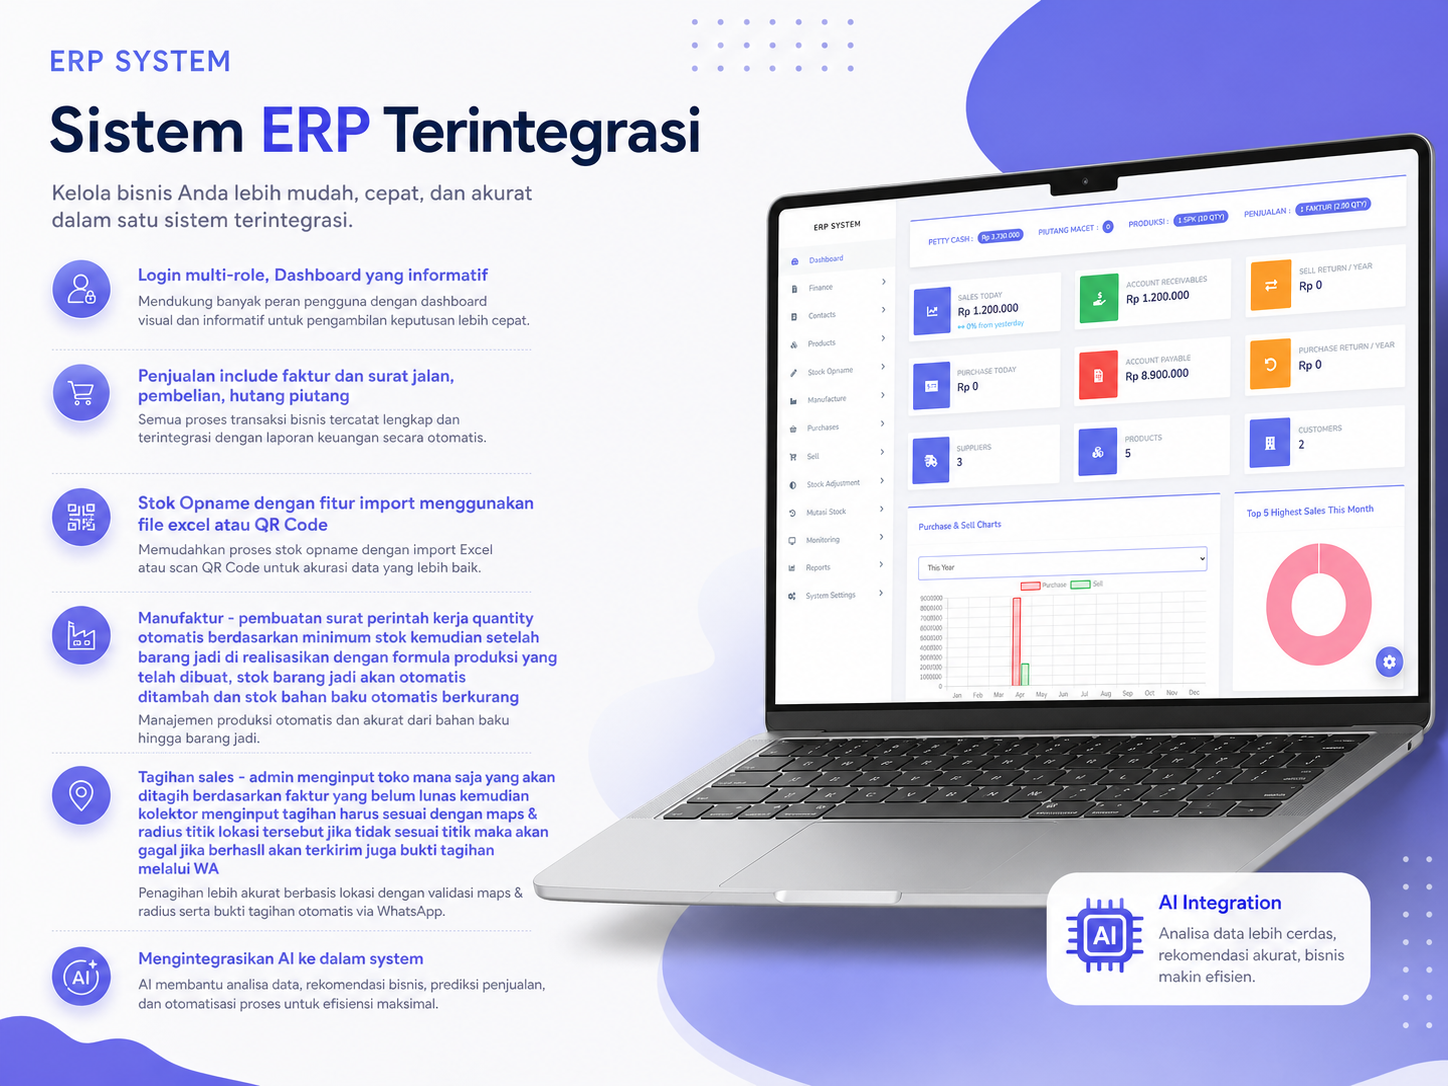
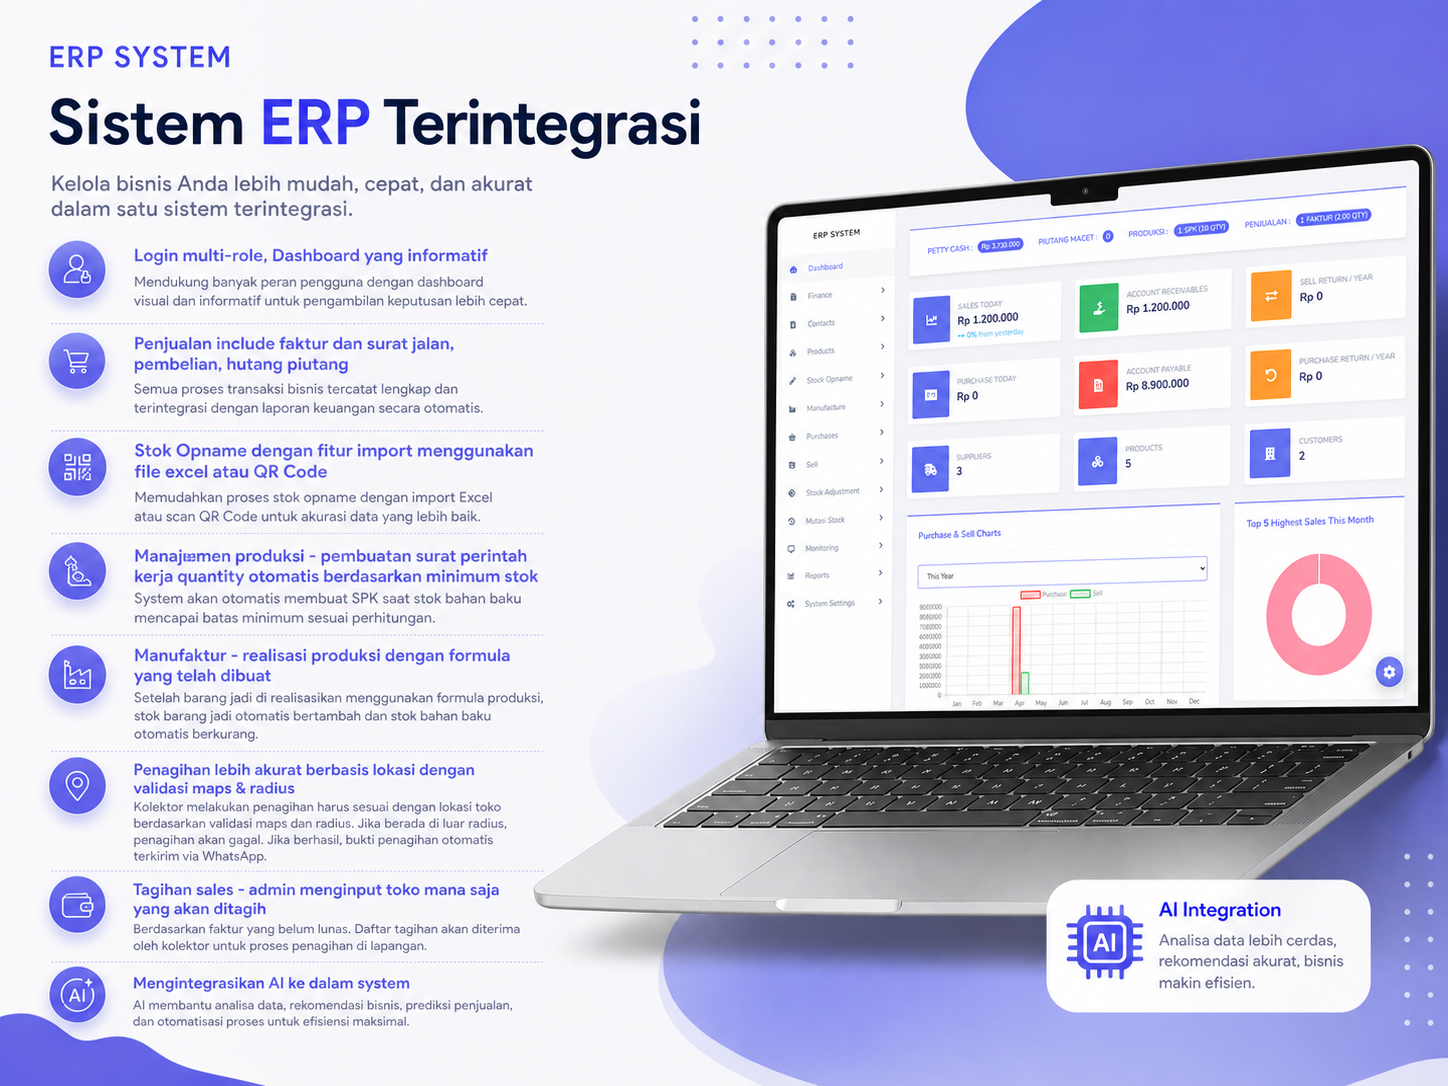
Edit language

Changed region(s): [[0.0, 0.0304, 0.9945, 0.9724]]

diff --git a/src/app/translations/id.ts b/src/app/translations/id.ts
@@ -30,9 +30,9 @@ export const id = {
     yearsOfExperience: "Tahun Pengalaman",
     buildingApps: "Membangun aplikasi web",
     expertise: [
-      "Arsitektur Frontend",
-      "Pengembangan Backend",
-      "Desain Database",
+      "Pengembangan Antarmuka",
+      "Pengembangan Sistem",
+      "Perancangan Arsitektur Database",
       "Implementasi UI/UX",
     ],
   },
@@ -42,28 +42,6 @@ export const id = {
     sectionLabel: "Keahlian Saya",
     title: "Keahlian Teknis",
     description: "Ikhtisar fokus tentang profisiensi teknis dan toolset saya.",
-    categories: {
-      frontend: "Frontend",
-      backend: "Backend",
-      database: "Database",
-      tools: "Peralatan",
-    },
-    items: {
-      frontend: [
-        "HTML",
-        "CSS",
-        "JavaScript",
-        "TypeScript",
-        "Bootstrap",
-        "Tailwind CSS",
-        "React",
-        "Next.js",
-        "Flutter",
-      ],
-      backend: ["PHP", "CodeIgniter", "Laravel", "Node.js"],
-      database: ["MySQL", "PostgreSQL", "Supabase", "Firebase", "MongoDB"],
-      tools: ["Git", "GitHub", "Postman", "VS Code", "Figma"],
-    },
   },
 
   // Projects Section
@@ -79,21 +57,21 @@ export const id = {
         description:
           "Sistem manajemen pasien komprehensif untuk rumah sakit yang mencakup fitur seperti penjadwalan janji, manajemen catatan pasien, dan manajemen antrian.",
         role: "Pengembang Fullstack",
-        tech: ["Laravel", "MySQL", "JavaScript", "VS Code", "Tailwind CSS"],
+        tech: ["PHP", "Laravel", "MySQL", "JavaScript", "Tailwind CSS", "VS Code"],
       },
       {
         title: "PresensiGo",
         description:
           "Aplikasi mobile untuk tim sales yang memungkinkan mereka mencatat kehadiran, kunjungan pelanggan, dan aktivitas harian dengan fitur berbasis lokasi dan pelaporan waktu nyata.",
         role: "Pengembang Mobile",
-        tech: ["Laravel", "MySQL", "VS Code", "Postman", "Flutter"],
+        tech: ["Flutter", "Android Studio", "Postman", "VS Code"],
       },
       {
         title: "HRIS",
         description:
           "Sistem informasi sumber daya manusia untuk manajemen karyawan, absensi, dan penggajian.",
         role: "Pengembang Fullstack",
-        tech: ["HTML", "Bootstrap", "Laravel", "MySQL", "VS Code"],
+        tech: ["HTML", "CSS", "JavaScript", "Bootstrap", "PHP", "Laravel", "MySQL", "VS Code"],
       },
       {
         title: "Profil Perusahaan",
@@ -101,13 +79,12 @@ export const id = {
           "Situs web profil perusahaan modern dengan desain responsif, elemen interaktif, dan kinerja yang dioptimalkan.",
         role: "Pengembang Fullstack",
         tech: [
-          "HTML",
-          "Tailwind CSS",
           "Next.js",
           "JavaScript",
+          "Tailwind CSS",
           "Supabase",
-          "Postman",
           "VS Code",
+          "Postman",
         ],
       },
       {
@@ -116,9 +93,8 @@ export const id = {
           "Sistem manajemen konten untuk situs profil perusahaan yang memungkinkan admin mengelola konten dengan mudah melalui dashboard yang intuitif.",
         role: "Pengembang Fullstack",
         tech: [
-          "HTML",
-          "Tailwind CSS",
           "Next.js",
+          "JavaScript",
           "Supabase",
           "Shadcn UI",
           "VS Code",
@@ -127,9 +103,9 @@ export const id = {
       {
         title: "Sistem ERP untuk Manufaktur",
         description:
-          "Sistem manajemen sumber daya perusahaan lengkap untuk perusahaan manufaktur dengan manajemen inventaris, pelacakan produksi, dan fitur pelaporan.",
+          "Sistem ini dirancang untuk memantau dan mengotomatisasi proses bisnis inti perusahaan seperti keuangan, rantai pasokan, dan produksi dalam satu platform terpusat.",
         role: "Pengembang Full Stack",
-        tech: ["HTML", "Bootstrap", "CodeIgniter", "MySQL", "VS Code"],
+        tech: ["HTML", "CSS", "JavaScript", "Bootstrap", "CodeIgniter", "MySQL", "VS Code"],
       },
     ],
   },

diff --git a/src/app/translations/en.ts b/src/app/translations/en.ts
@@ -32,9 +32,9 @@ export const en = {
     yearsOfExperience: "Years of Experience",
     buildingApps: "Building web applications",
     expertise: [
-      "Frontend Architecture",
+      "Frontend Development",
       "Backend Development",
-      "Database Design",
+      "Database Architecture",
       "UI/UX Implementation",
     ],
   },
@@ -44,28 +44,6 @@ export const en = {
     sectionLabel: "My Expertise",
     title: "Technical Skills",
     description: "A focused overview of my technical proficiency and toolset.",
-    categories: {
-      frontend: "Frontend",
-      backend: "Backend",
-      database: "Database",
-      tools: "Tools",
-    },
-    items: {
-      frontend: [
-        "HTML",
-        "CSS",
-        "JavaScript",
-        "TypeScript",
-        "Bootstrap",
-        "Tailwind CSS",
-        "React",
-        "Next.js",
-        "Flutter",
-      ],
-      backend: ["PHP", "CodeIgniter", "Laravel", "Node.js"],
-      database: ["MySQL", "PostgreSQL", "Supabase", "Firebase", "MongoDB"],
-      tools: ["Git", "GitHub", "Postman", "VS Code", "Figma"],
-    },
   },
 
   // Projects Section
@@ -81,21 +59,21 @@ export const en = {
         description:
           "A comprehensive patient management system for hospitals that includes features such as appointment scheduling, patient records management, and queue management.",
         role: "Fullstack Developer",
-        tech: ["Laravel", "MySQL", "JavaScript", "VS Code", "Tailwind CSS"],
+        tech: ["PHP", "Laravel", "MySQL", "JavaScript", "Tailwind CSS", "VS Code"],
       },
       {
         title: "PresensiGo",
         description:
           "A mobile application for sales teams that allows them to log attendance, customer visits, and daily activities with location-based features and real-time reporting.",
         role: "Mobile Developer",
-        tech: ["Laravel", "MySQL", "VS Code", "Postman", "Flutter"],
+        tech: ["Flutter", "Android Studio", "Postman" , "VS Code"],
       },
       {
         title: "HRIS",
         description:
           "Human Resource Information System for managing employee data, attendance, and payroll.",
         role: "Fullstack Developer",
-        tech: ["HTML", "Bootstrap", "Laravel", "MySQL", "VS Code"],
+        tech: ["HTML", "CSS", "JavaScript", "Bootstrap", "PHP", "Laravel", "MySQL", "VS Code"],
       },
       {
         title: "Company Profile",
@@ -103,10 +81,9 @@ export const en = {
           "A modern company profile website with responsive design, interactive elements, and optimized performance.",
         role: "Fullstack Developer",
         tech: [
-          "HTML",
-          "Tailwind CSS",
           "Next.js",
           "JavaScript",
+          "Tailwind CSS",
           "Supabase",
           "Postman",
           "VS Code",
@@ -118,9 +95,8 @@ export const en = {
           "Content management system for company profile websites that allows admins to easily manage content through an intuitive dashboard.",
         role: "Fullstack Developer",
         tech: [
-          "HTML",
-          "Tailwind CSS",
           "Next.js",
+          "JavaScript",
           "Supabase",
           "Shadcn UI",
           "VS Code",
@@ -129,9 +105,9 @@ export const en = {
       {
         title: "ERP System for Manufacturing",
         description:
-          "Complete enterprise resource planning system for manufacturing companies with inventory management, production tracking, and reporting features.",
+          "This system is designed to monitor and automate the company's core business processes such as finance, supply chain, and production within a centralized platform.",
         role: "Full Stack Developer",
-        tech: ["HTML", "Bootstrap", "CodeIgniter", "MySQL", "VS Code"],
+        tech: ["HTML", "CSS", "JavaScript", "Bootstrap", "CodeIgniter", "MySQL", "VS Code"],
       },
     ],
   },